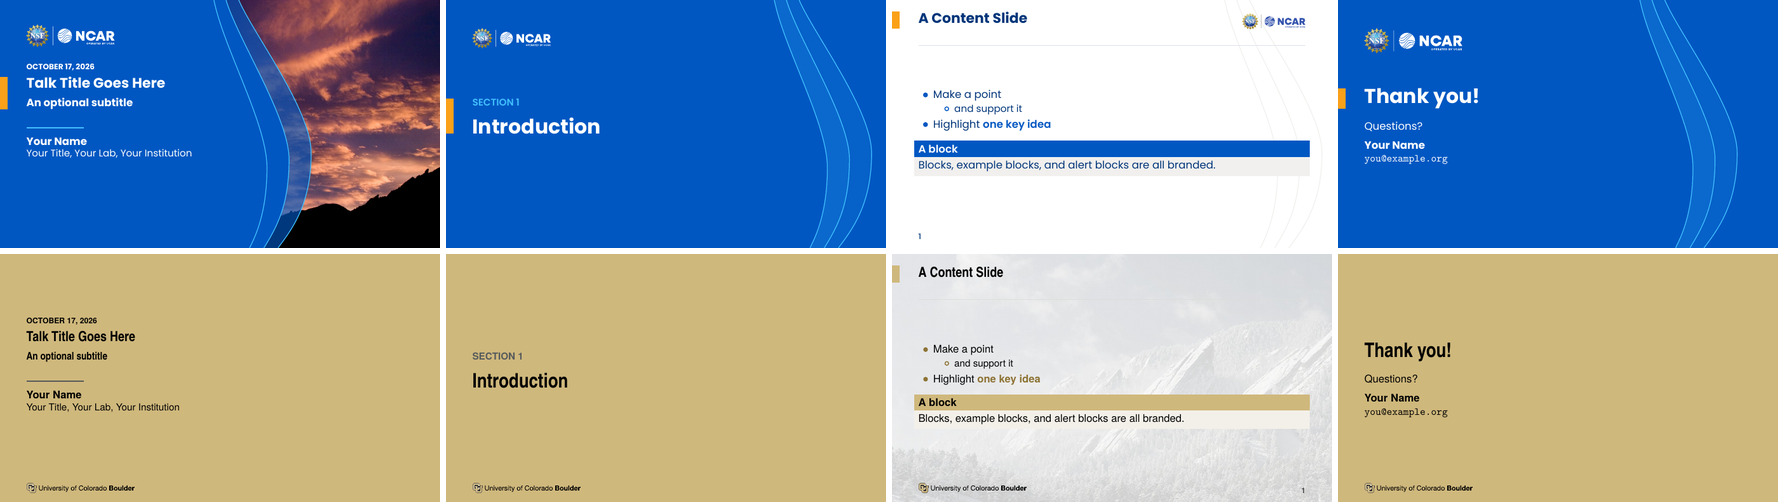
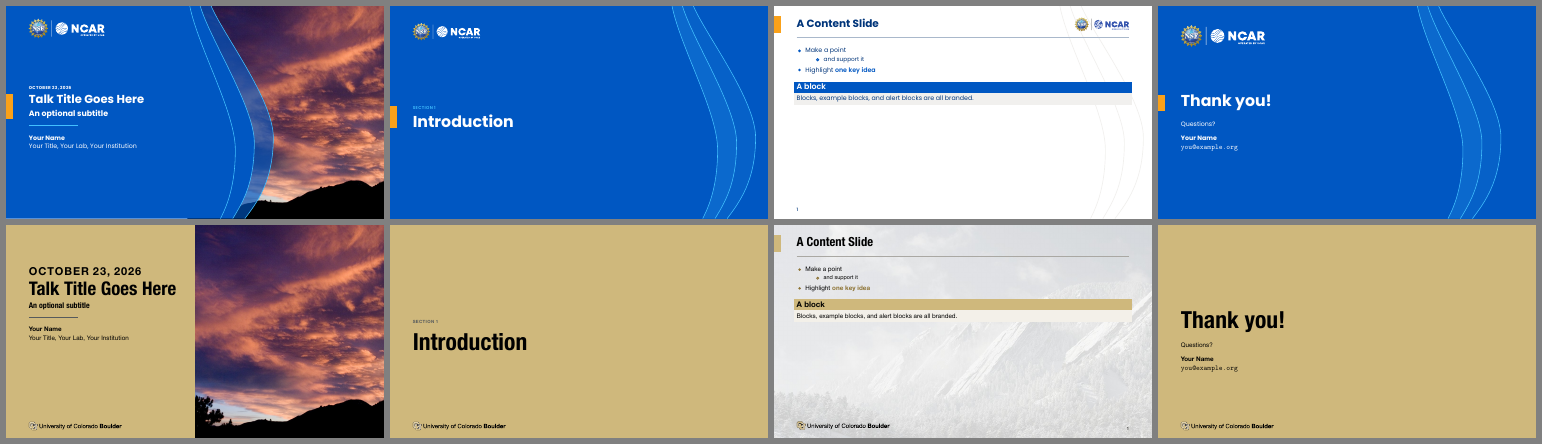
LaTeX: make previews writes the README's preview.png too
latex/preview.png (the starter under ncar and cu) was shot by hand at the flatten (c0ee8e5)
and showed the PDF's hairline before #138. A rule makes it: talk-cu.tex is talk.tex with its
livery swapped (written and gitignored), and sheet.py takes --pages for the starter's title,
divider, content and closing slides (1,2,3,-1) in place of the cookbook's titles. The README's
previews row and the changelog's LaTeX entry.

Claude-Session: https://claude.ai/code/session_018sZZ6Tdo7VuWcb619dTZBP

Changed region(s): [[0.0, 0.0, 1.0, 1.0], [0.9339, 0.0586, 0.965, 0.3514]]

diff --git a/latex/sheet.py b/latex/sheet.py
@@ -2,11 +2,14 @@
 """The cookbook's contact sheet, latex/sample.png: four pattern slides of examples/sample.pdf under
 three liveries (the default ncar, sample-cu.pdf, sample-nasa-dark.pdf), liveries down and patterns
 across, at 60 dpi. A page is found by its title in `pdftotext` (as decks/quickstart/screenshots.py
-finds the README's), and which page of a frame's steps by its place among them. Needs poppler's
-pdftotext and pdftoppm (the env's) and Pillow. `make previews` here; rebuild it whenever the
-cookbook's pattern slides change, and commit it (latex/authoring.md shows it).
+finds the README's), and which page of a frame's steps by its place among them; `--pages` takes
+page numbers instead (a negative one from the end), which the README's preview.png uses for the
+starter's title, divider, content and closing slides. Needs poppler's pdftotext and pdftoppm (the
+env's) and Pillow. `make previews` here; rebuild them whenever the slides they show change, and
+commit them (latex/authoring.md and latex/README.md show them).
 
     python3 sheet.py [examples/sample.pdf examples/sample-cu.pdf examples/sample-nasa-dark.pdf] [-o sample.png]
+    python3 sheet.py --pages 1,2,3,-1 talk.pdf talk-cu.pdf -o preview.png
 """
 
 import argparse
@@ -49,19 +52,24 @@ def main():
     ap = argparse.ArgumentParser(description=__doc__.split("\n\n")[0])
     ap.add_argument("pdfs", nargs="*", default=[HERE / "examples" / f"{n}.pdf" for n in ("sample", "sample-cu", "sample-nasa-dark")], type=Path)
     ap.add_argument("-o", "--out", default=HERE / "sample.png", type=Path)
+    ap.add_argument("--pages", help="page numbers in place of the pattern titles, comma-separated; a negative one counts from the end")
     a = ap.parse_args()
     rows = []
     for pdf in a.pdfs:
-        titles = page_titles(pdf)
-        rows.append([shoot(pdf, find(titles, title, which)) for title, which in SLIDES])
+        if a.pages:
+            n = len(page_titles(pdf))
+            rows.append([shoot(pdf, p if p > 0 else n + 1 + p) for p in map(int, a.pages.split(","))])
+        else:
+            titles = page_titles(pdf)
+            rows.append([shoot(pdf, find(titles, title, which)) for title, which in SLIDES])
     gap = 6
     w, h = rows[0][0].size
-    sheet = Image.new("RGB", (len(SLIDES) * (w + gap) + gap, len(rows) * (h + gap) + gap), "#808080")
+    sheet = Image.new("RGB", (len(rows[0]) * (w + gap) + gap, len(rows) * (h + gap) + gap), "#808080")
     for r, row in enumerate(rows):
         for c, im in enumerate(row):
             sheet.paste(im.resize((w, h)), (gap + c * (w + gap), gap + r * (h + gap)))
     sheet.save(a.out)
-    print(f"wrote {a.out}: {len(rows)} liveries x {len(SLIDES)} slides")
+    print(f"wrote {a.out}: {len(rows)} liveries x {len(rows[0])} slides")
 
 
 if __name__ == "__main__":

diff --git a/latex/README.md b/latex/README.md
@@ -56,7 +56,7 @@ This directory holds the engine's own LaTeX decks; build them here:
 | every feature: `examples/template.tex`; the cookbook `sample.tex` ([authoring.md](authoring.md)); `paper.tex`, a document that is not slides; `mathfonts.tex`, the math-font specimen; `quarto-demo.qmd` | `make examples` | `examples/*.pdf` |
 | `template.tex` under UCAR, UCP, NCAR-UCAR, the light title, 4:3, pdfLaTeX and `mathfont=poppins`; `sample.tex` under cu, the dark livery nasa-dark and 4:3 | `make variants` | `examples/template-*.pdf`, `examples/sample-*.pdf` |
 | the Quarto demo as an HTML deck | `make html` | `examples/quarto-demo.html` |
-| the README's math-font specimen and the cookbook's contact sheet | `make previews` | `math-fonts.png`, `sample.png` |
+| the README's math-font specimen and starter preview, and the cookbook's contact sheet | `make previews` | `math-fonts.png`, `preview.png`, `sample.png` |
 
 `make latex` at the top of the repo builds the first three. They need TeX Live (or MacTeX,
 MiKTeX) with XeLaTeX and latexmk, and no fonts: the Makefile points `TEXINPUTS` and

diff --git a/CHANGELOG.md b/CHANGELOG.md
@@ -108,6 +108,13 @@ owner changes a band, a hairline or a footnote rule once.
   it (the scss keeps Quarto's four compile-time Sass defaults, overridden at runtime). Nothing
   to do.
 
+### LaTeX
+
+- `make previews` in `latex/` also writes `preview.png`, the README's starter deck under ncar
+  and cu (`sheet.py --pages`); it had been shot by hand at the flatten and showed the old
+  hairline. latex/README.md names `BrandOnDark` among the roles and the exported palette names
+  as each `build/livery.sty` defines them.
+
 ## [26.10.9] - 2026-10-22
 
 ### Decks
